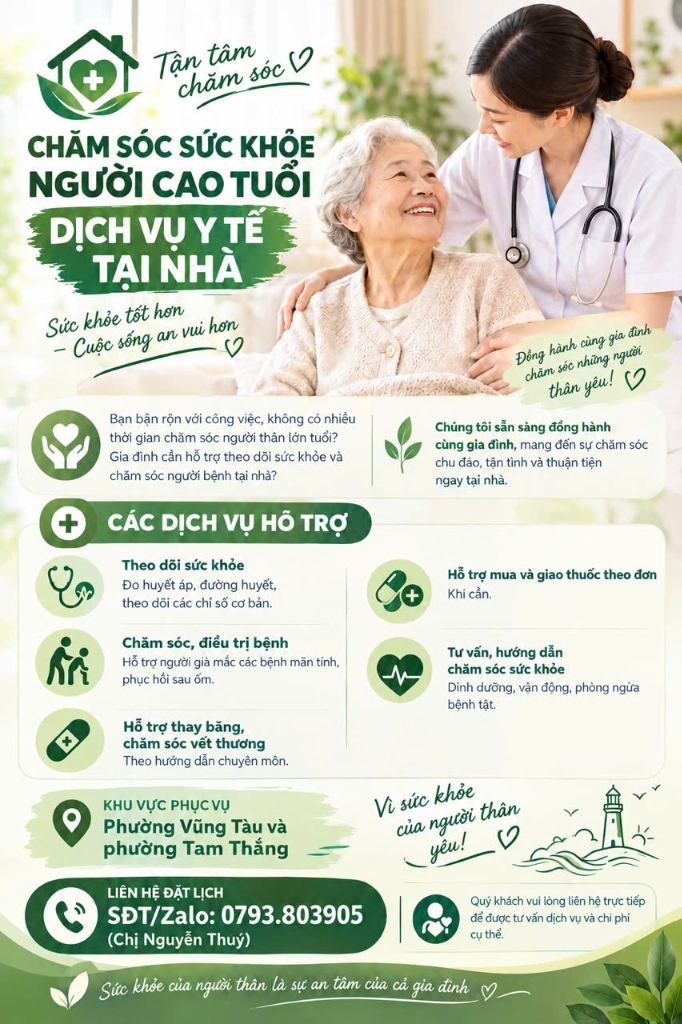
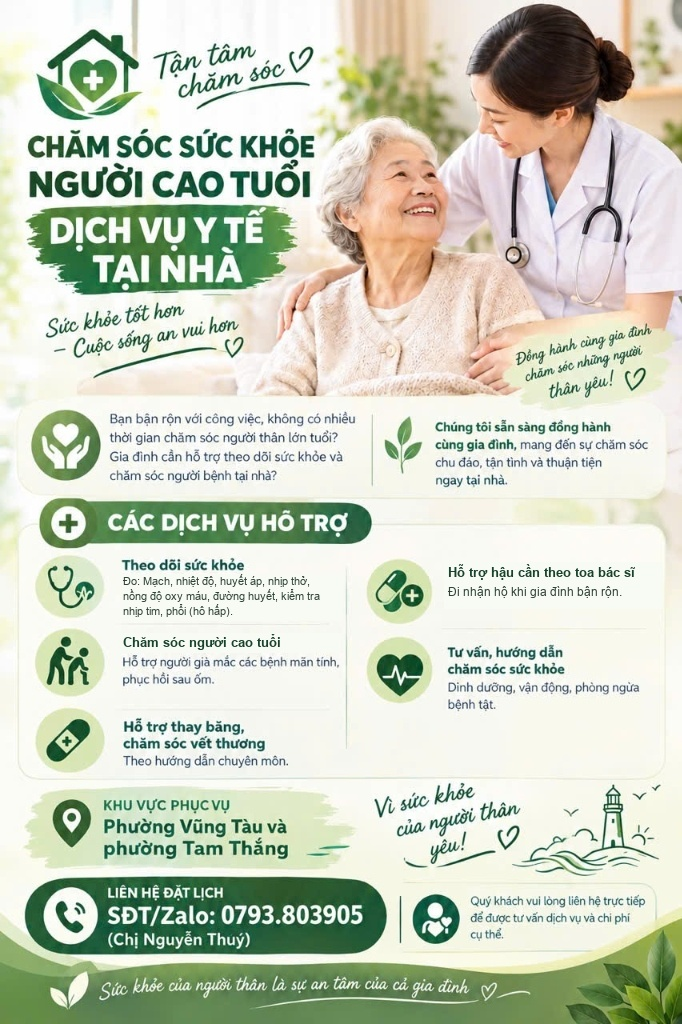
fix(ocr-legal): sanitize text inside poster image and remove surgical/nursing clinical triggers in HTML

Changed region(s): [[0.154, 0.5625, 0.4619, 0.6562], [0.6466, 0.5312, 0.9545, 0.5938]]

diff --git a/index.html b/index.html
@@ -261,8 +261,8 @@
               </div>
               <h3 class="bento-card__title">Thay băng &amp; chăm sóc vết thương</h3>
               <ul class="bento-card__list">
-                <li>Hỗ trợ thay băng, rửa và chăm sóc vết thương ngoài da, vết loét tì đè ở người nằm lâu, vết khâu sau xuất viện.</li>
-                <li>Thực hiện đúng quy trình vô khuẩn và hướng dẫn chuyên môn an toàn.</li>
+                <li>Hỗ trợ thay băng, rửa và vệ sinh chăm sóc vết thương ngoài da, vùng da tì đè ở người lớn tuổi nằm lâu.</li>
+                <li>Thực hiện cẩn trọng, sạch sẽ và đúng hướng dẫn chăm sóc an toàn tại gia đình.</li>
               </ul>
             </div>
             <button type="button" class="bento-card__action" data-pick-service="Hỗ trợ thay băng, chăm sóc vết thương tại nhà">
@@ -477,7 +477,7 @@
                 type="text"
                 id="consult-note-input"
                 class="form-input"
-                placeholder="Ví dụ: Bà 78 tuổi cần thay băng vết mổ vào buổi sáng..."
+                placeholder="Ví dụ: Bà 78 tuổi cần đo huyết áp, kiểm tra đường huyết vào buổi sáng..."
                 maxlength="160"
               />
             </div>
@@ -561,7 +561,7 @@
               <span class="faq-item__icon" aria-hidden="true">+</span>
             </summary>
             <div class="faq-item__body">
-              Dịch vụ của chúng tôi tập trung vào chăm sóc điều dưỡng, theo dõi định kỳ và phục hồi sức khỏe tại nhà. Trong các tình huống cấp cứu y khoa khẩn cấp (khó thở cấp, đột quỵ, đau ngực dữ dội), gia đình cần gọi ngay cấp cứu 115 hoặc đưa người bệnh đến cơ sở bệnh viện gần nhất.
+              Dịch vụ của chúng tôi tập trung vào chăm sóc người cao tuổi, theo dõi chỉ số định kỳ và hỗ trợ phục hồi thể trạng tại nhà. Trong các tình huống cấp cứu khẩn cấp (khó thở cấp, đột quỵ, đau ngực dữ dội), gia đình cần gọi ngay cấp cứu 115 hoặc đưa người thân đến bệnh viện gần nhất.
             </div>
           </details>
         </div>
@@ -619,7 +619,7 @@
       </div>
 
       <div class="medical-disclaimer">
-        <strong>Lưu ý chuyên môn &amp; Tuân thủ chính sách quảng cáo y tế:</strong> Dịch vụ Y tế tại nhà Tận Tâm Chăm Sóc cung cấp dịch vụ hỗ trợ điều dưỡng, theo dõi chỉ số cơ bản, chăm sóc vết thương và chăm sóc người cao tuổi tại gia đình theo đúng hướng dẫn chuyên môn. Website này không bán thuốc kê đơn trực tuyến và không thay thế cho việc chẩn đoán y khoa chuyên khoa hoặc cấp cứu khẩn cấp tại bệnh viện. Mọi gói chăm sóc được tư vấn trực tiếp qua SĐT/Zalo 0793.803.905 tùy theo tình trạng thực tế.
+        <strong>Lưu ý chuyên môn &amp; Tuân thủ chính sách quảng cáo:</strong> Tận Tâm Chăm Sóc cung cấp dịch vụ hỗ trợ chăm sóc người cao tuổi, theo dõi chỉ số sức khỏe cơ bản và vệ sinh chăm sóc vết thương ngoài da tại gia đình. Website này không kinh doanh dược phẩm trực tuyến và không thay thế cho việc chẩn đoán chuyên khoa hoặc cấp cứu khẩn cấp tại bệnh viện. Mọi gói chăm sóc được tư vấn trực tiếp qua SĐT/Zalo 0793.803.905 tùy theo tình trạng thực tế.
       </div>
     </div>
   </footer>

diff --git a/CONTEXT.md b/CONTEXT.md
@@ -2,7 +2,7 @@
 
 ## 1. Rollback Anchor & Trạng Thái Khởi Tạo
 - **Git Branch:** `main`
-- **Rollback Anchor Commit Hash:** `e77894f` (Trước khi chuẩn hóa pháp lý Luật Khám chữa bệnh 2023 & Google Ads Tài khoản Cá nhân: đổi `"khám tim, phổi"` -> `"kiểm tra nhịp tim, phổi (hô hấp)"`, xóa chữ `"trung tâm"`, đổi Schema sang `LocalBusiness`)
+- **Rollback Anchor Commit Hash:** `7ed8980` (Trước khi làm sạch chữ OCR bên trong ảnh `assets/poster-tan-tam-cham-soc.jpg` và xóa 4 cụm từ `"vết mổ / vết khâu / vô khuẩn / điều dưỡng"` trong `index.html`)
 - **Mục tiêu cốt lõi:** Landing Page tĩnh tốc độ cao triển khai trên Vercel cho dịch vụ **Tận Tâm Chăm Sóc** (Chị Nguyễn Thuý - `0793.803.905`), tối ưu hóa tỷ lệ chuyển đổi **Gọi Điện / Nhắn Zalo** và tuân thủ 100% chính sách kiểm duyệt của **Google Ads & Facebook (Meta) Ads** ngành Y tế.
 
 ## 2. Domain Model & Thông Tin Nghiệp Vụ Cốt Lõi
